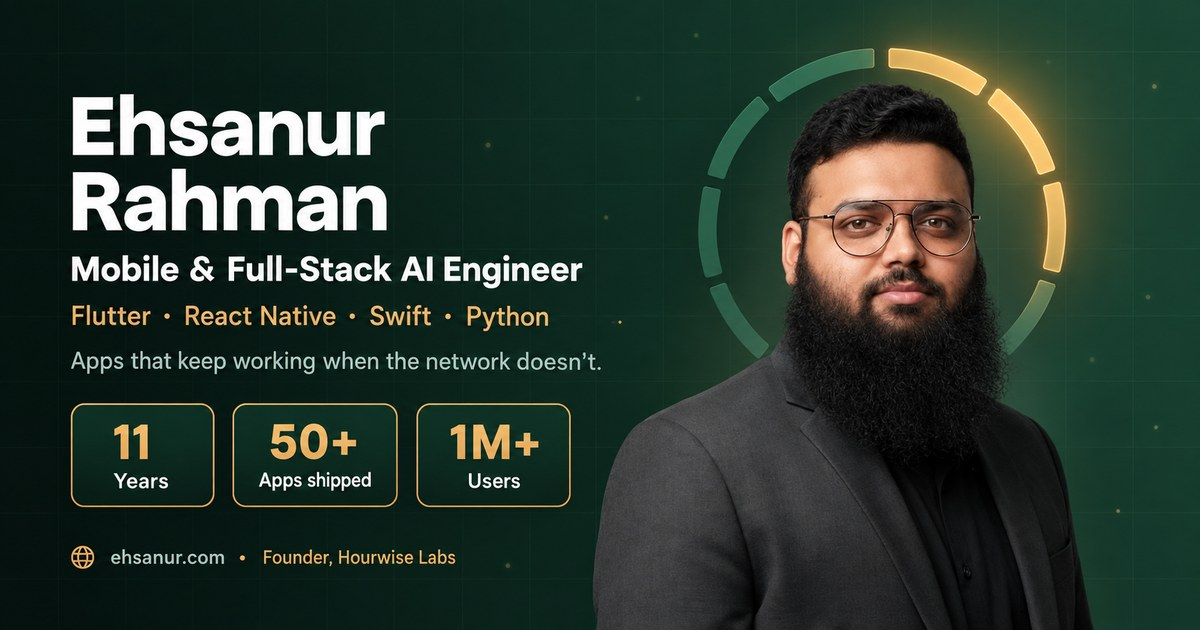
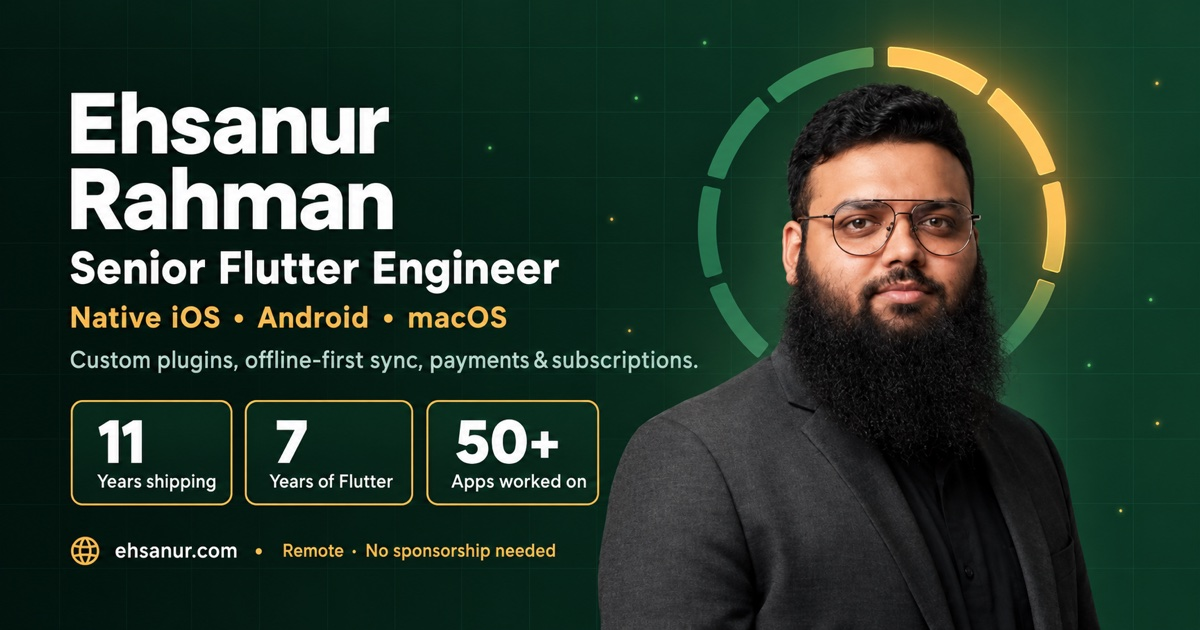
Remove Cloudflare analytics, update checkout
Remove the Cloudflare Web Analytics beacon from web/index.html and update lib/src/utils/analytics.dart to reflect that no analytics backend is wired (track remains a no-op). Also update GitHub Actions checkout to actions/checkout@v5 in .github/workflows/deploy.yml with a comment about Node runtime differences. This removes the third-party analytics script and ensures CI uses the newer checkout action.

diff --git a/web/index.html b/web/index.html
@@ -38,9 +38,6 @@
   <meta name="twitter:description" content="11 years shipping mobile apps · 7 years of Flutter. Offline-first sync, StoreKit/Stripe, native plugins. Available now.">
   <meta name="twitter:image" content="https://ehsanur.com/og-preview.jpg">
 
-  <!-- Cloudflare Web Analytics (free, no cookies). spa:true for Flutter Web. -->
-  <script type="module" src="https://static.cloudflareinsights.com/beacon.min.js" data-cf-beacon='{"token": "1da1dc3790df487e9646cc8da13aa38e", "spa": true}'></script>
-
   <!-- iOS meta tags & icons -->
   <meta name="apple-mobile-web-app-capable" content="yes">
   <meta name="apple-mobile-web-app-status-bar-style" content="black">

diff --git a/lib/src/utils/analytics.dart b/lib/src/utils/analytics.dart
@@ -1,7 +1,6 @@
-/// Cloudflare Web Analytics is pageview-only (beacon in web/index.html).
-/// Custom CTA events are not supported on the free product, so [track] is a
-/// no-op on every platform. Call sites stay so a richer backend can be wired
-/// later without touching every button.
+/// No analytics backend is wired up (the site loads no third-party
+/// scripts), so [track] is a no-op on every platform. Call sites stay so a
+/// backend can be wired later without touching every button.
 class Analytics {
   Analytics._();
 
